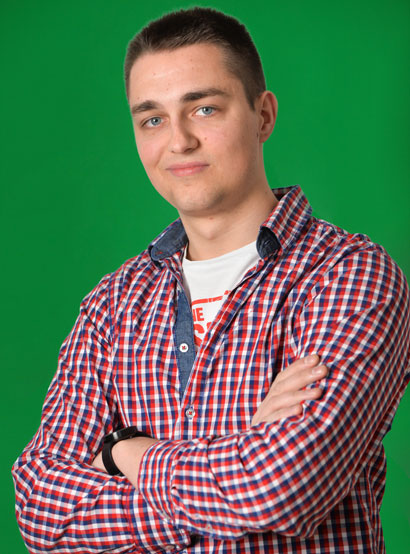
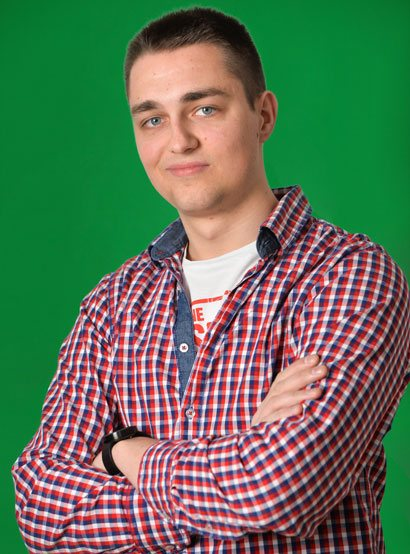
SEO Changes (mostly)
Added:
- Google Tag Manager
- Popup about use of cookies
- Sitemap + Robots.txt

Updated:
- MDL to 1.3.0
- Font Awesome to 4.7.0
- Personal photo to a compressed version

diff --git a/app/partials/scripts.html b/app/partials/scripts.html
@@ -2,32 +2,31 @@
 <!-- Fonts -->
 <link rel="preload" href="https://fonts.googleapis.com/icon?family=Roboto:400,400italic,500,500italic,700,700italic|Material+Icons|Lora|Lobster" as="style" onload="this.rel='stylesheet'">
 <link rel="preload" href="https://cdn.rawgit.com/konpa/devicon/master/devicon.min.css" as="style" onload="this.rel='stylesheet'">
-<link rel="preload" href="https://maxcdn.bootstrapcdn.com/font-awesome/4.6.3/css/font-awesome.min.css" as="style" onload="this.rel='stylesheet'">
+<link rel="preload" type="text/css" href="//cdnjs.cloudflare.com/ajax/libs/cookieconsent2/3.0.3/cookieconsent.min.css" as="style" onload="this.rel='stylesheet'">
 <noscript>
   <link rel="stylesheet" href="https://fonts.googleapis.com/icon?family=Roboto:400,400italic,500,500italic,700,700italic|Material+Icons|Lora|Lobster">
   <link rel="stylesheet" href="https://cdn.rawgit.com/konpa/devicon/master/devicon.min.css">
-  <link rel="stylesheet" href="https://maxcdn.bootstrapcdn.com/font-awesome/4.6.3/css/font-awesome.min.css">
+  <link rel="stylesheet" type="text/css" href="//cdnjs.cloudflare.com/ajax/libs/cookieconsent2/3.0.3/cookieconsent.min.css" />
 </noscript>
 
 <!-- Scripts -->
-<script defer src="https://code.getmdl.io/1.2.1/material.min.js"></script>
+<script defer src="https://code.getmdl.io/1.3.0/material.min.js"></script>
 <!-- build:js scripts/main.min.js -->
 <script src="scripts/main.js"></script>
 <!-- endbuild -->
-
-<!-- Google Analytics: change UA-XXXXX-X to be your site's ID -->
+<script src="https://use.fontawesome.com/9f9305da79.js"></script>
+<script src="//cdnjs.cloudflare.com/ajax/libs/cookieconsent2/3.0.3/cookieconsent.min.js"></script>
 <script>
-  (function (i, s, o, g, r, a, m) {
-    i['GoogleAnalyticsObject'] = r;
-    i[r] = i[r] || function () {
-        (i[r].q = i[r].q || []).push(arguments)
-      }, i[r].l = 1 * new Date();
-    a = s.createElement(o),
-      m = s.getElementsByTagName(o)[0];
-    a.async = 1;
-    a.src = g;
-    m.parentNode.insertBefore(a, m)
-  })(window, document, 'script', 'https://www.google-analytics.com/analytics.js', 'ga');
-  ga('create', 'UA-57230724-2', 'auto');
-  ga('send', 'pageview');
+  window.addEventListener("load", function(){
+    window.cookieconsent.initialise({
+      "palette": {
+        "popup": {
+          "background": "#252e39"
+        },
+        "button": {
+          "background": "#1eaaf1"
+        }
+      },
+      "theme": "edgeless"
+    })});
 </script>

diff --git a/app/partials/sections/intro.html b/app/partials/sections/intro.html
@@ -6,7 +6,7 @@
         <div class="mdl-grid">
           <div class="dl-cell mdl-cell--4-col mdl-cell--4-col-tablet mdl-cell--5-col-desktop">
             <div class="photo-outer">
-              <img class="photo mdl-shadow--4dp" src="../images/me.jpg" alt="profile photo">
+              <img class="photo mdl-shadow--4dp" src="../images/me.jpg" alt="profile photo" height="350px" width="260px">
             </div>
           </div>
 
@@ -26,7 +26,7 @@
               </div>
               <div class="about">
                 <p>I'm a young but passionate software developer, crazy about new technologies, breathtaking
-                  views and good coffee <i class="fa fa-coffee" aria-hidden="true"></i>.</p>
+                  views and good IPA <i class="fa fa-beer" aria-hidden="true"></i>.</p>
                 <p>My fellow colleagues tend to call me "Mr JavaScript" or "JavaScript boy", as I have a flair for the
                   language and I try to follow all the latest trends in it (that's a daunting task, I know), however,
                   with a <span class="tooltip">grain of salt<span class="tooltiptext">avoiding the #hype</span></span>.</p>
@@ -35,6 +35,7 @@
                 <div class="dev-icons">
                   <i class="devicon-javascript-plain colored" title="JavaScript" aria-hidden="true"></i>
                   <i class="devicon-nodejs-plain colored" title="Node.js" aria-hidden="true"></i>
+                  <i class="devicon-php-plain colored" title="PHP" aria-hidden="true"></i>
                 </div>
               </div>
             </div>

diff --git a/app/partials/head.html b/app/partials/head.html
@@ -3,7 +3,6 @@
   <meta http-equiv="X-UA-Compatible" content="IE=edge">
   <meta name="viewport" content="width=device-width, initial-scale=1.0">
   <meta name="description" content="Few words about me and ">
-  <meta name="keywords" content="kamil, wojtczyk, kamil wojtczyk, javascript, nodejs, developer">
   <title>Kamil Wojtczyk - JavaScript Adept</title>
 
   <!-- Disable tap highlight on IE -->
@@ -49,5 +48,13 @@
   @@if (env !== 'production') {
   <link rel="stylesheet" href="styles/main.css">
   }
-  <link rel="stylesheet" href="https://code.getmdl.io/1.2.1/material.blue-red.min.css">
+  <link rel="stylesheet" href="https://code.getmdl.io/1.3.0/material.blue-red.min.css">
+
+  <!-- Google Tag Manager -->
+  <script>(function(w,d,s,l,i){w[l]=w[l]||[];w[l].push({'gtm.start':
+    new Date().getTime(),event:'gtm.js'});var f=d.getElementsByTagName(s)[0],
+    j=d.createElement(s),dl=l!='dataLayer'?'&l='+l:'';j.async=true;j.src=
+    'https://www.googletagmanager.com/gtm.js?id='+i+dl;f.parentNode.insertBefore(j,f);
+  })(window,document,'script','dataLayer','GTM-TZ7L49V');</script>
+  <!-- End Google Tag Manager -->
 </head>

diff --git a/app/index.html b/app/index.html
@@ -3,6 +3,12 @@
 @@include('./partials/head.html')
 
 <body class="kw mdl-base">
+
+<!-- Google Tag Manager (noscript) -->
+<noscript><iframe src="https://www.googletagmanager.com/ns.html?id=GTM-TZ7L49V"
+                  height="0" width="0" style="display:none;visibility:hidden"></iframe></noscript>
+<!-- End Google Tag Manager (noscript) -->
+
 <div class="kw-layout mdl-layout mdl-js-layout">
   @@include('./partials/nav.html')
 

diff --git a/app/styles/_intro.scss b/app/styles/_intro.scss
@@ -11,6 +11,7 @@
     width: 100%;
     position: relative;
     top: 50px;
+    margin-bottom: 2rem;
 
     text-align: center;
     @media (min-width: $grid-tablet-breakpoint) {
